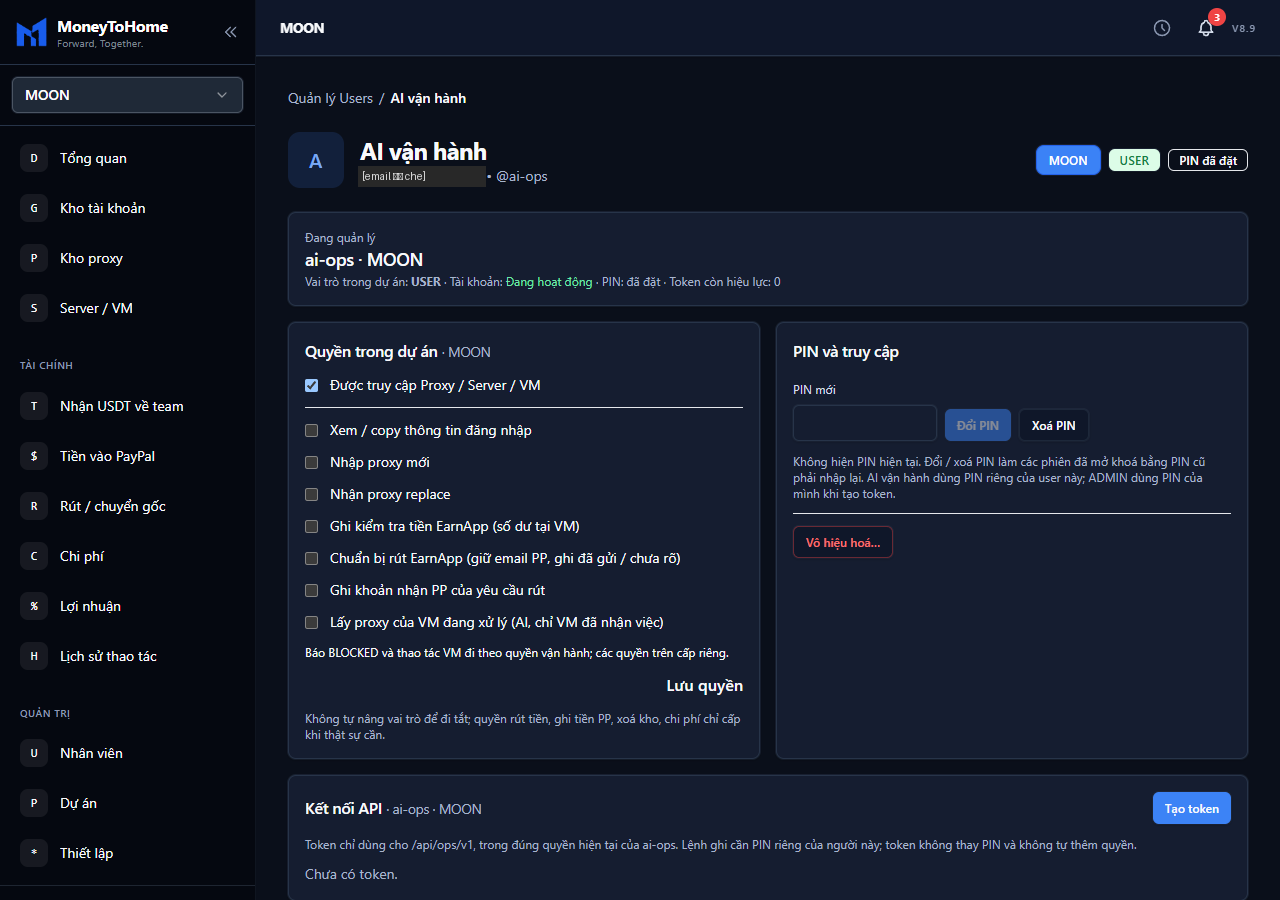
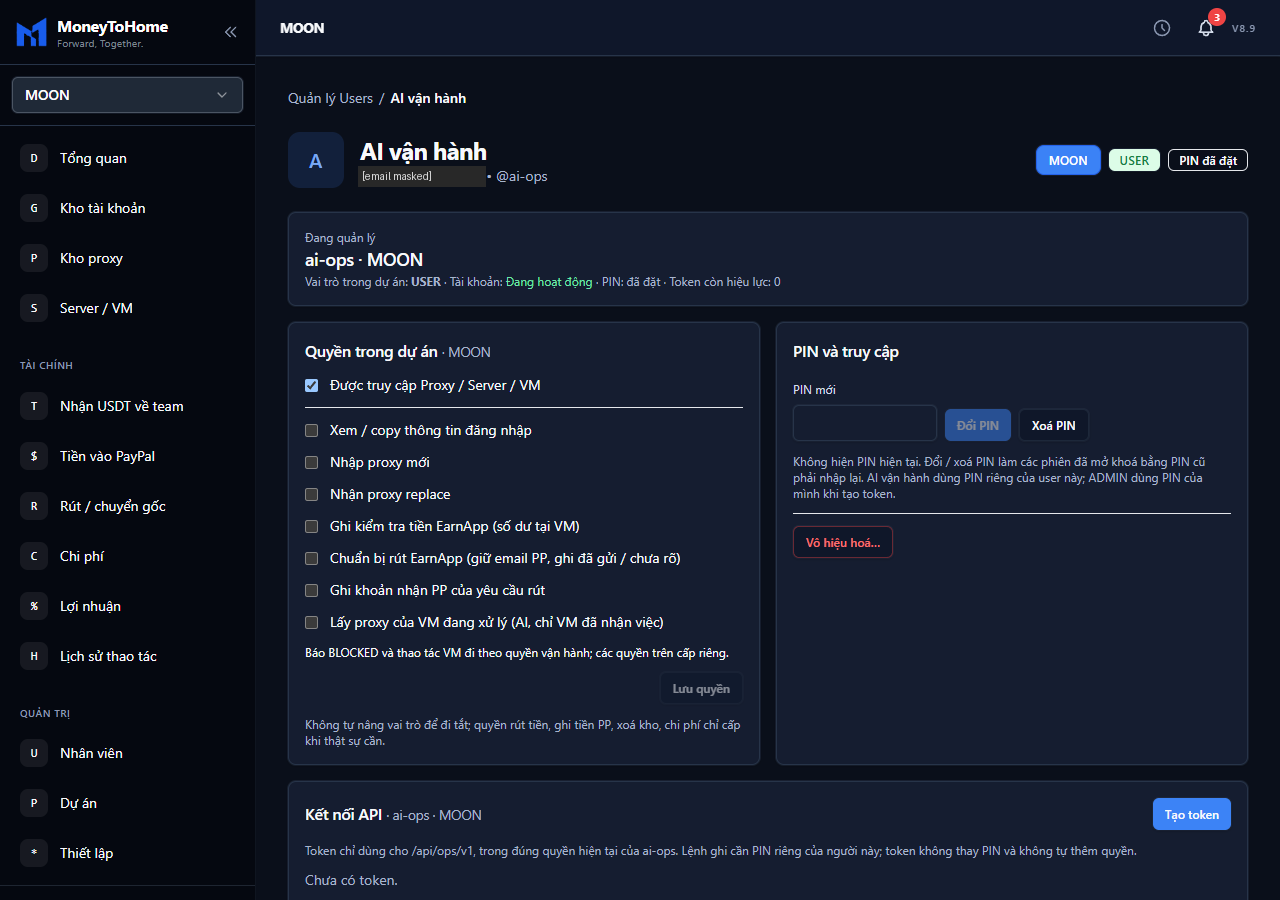
Record AI VM ops and user administration release: backups 579af65e / 3a47140f, deploys 673131bd / 931c06e6

Changed region(s): [[0.2188, 0.7467, 0.9688, 0.9956], [0.3125, 0.1867, 0.3438, 0.2178]]

diff --git a/docs/superpowers/evidence/2026-10-22-user-access/README.md b/docs/superpowers/evidence/2026-10-22-user-access/README.md
@@ -11,3 +11,13 @@ Runbook: docs/runbooks/user-access.md. Dữ liệu thử local (DB trial local, 
   theme), `phone-top.png` (390px; chụp trước khi cho đầu trang xuống dòng — đã sửa sau đó).
 - Test: `src/__tests__/users/user-access.integration.test.ts` (5 ca: phiên + mở khoá PIN, vô hiệu hoá / bật lại, ghi đồng thời với vô hiệu hoá — lệnh đã qua
   kiểm trước mốc xong, lệnh sau mốc bị từ chối, giới hạn ai được vô hiệu hoá, token theo user + mã yêu cầu + người không phải ADMIN không cấp được).
+
+## Phát hành (21–22/10/2026)
+
+- Commit a6c8371 (+ 8e757a8 nút / nhãn), cùng đợt với f1a8fbd (vận hành VM bằng AI). Backup 579af65e trước deploy 673131bd (migration 20261021150000_ai_vm_ops
+  + 20261022090000_user_access, chỉ thêm); backup 3a47140f trước deploy 931c06e6. Ảnh chụp số liệu host trước / sau mỗi lần giống hệt (10 server, 576 VM,
+  1261 proxy).
+- Host chỉ đọc + điều hướng (`host-projects.png`, `host-user-ai-ops.png`, email / tên thành viên đã che): gọi API trước PIN → PIN_REQUIRED; Dự án: **MOON**
+  [Proxy / VM], **AE** [Proxy / VM] (tên trong DB đã đúng, không cần đổi); không còn "PERSONAL_SHEET —"; Nhân viên → ai-ops → "ai-ops · MOON" với ba phần;
+  Thiết lập chỉ dẫn tới Nhân viên. Không tạo token, không đổi PIN, không cấp quyền, không vô hiệu hoá ai trên host.
+- Sau triển khai, các phiên đăng nhập cũ (JWT chưa có phiên server) phải đăng nhập lại một lần.
